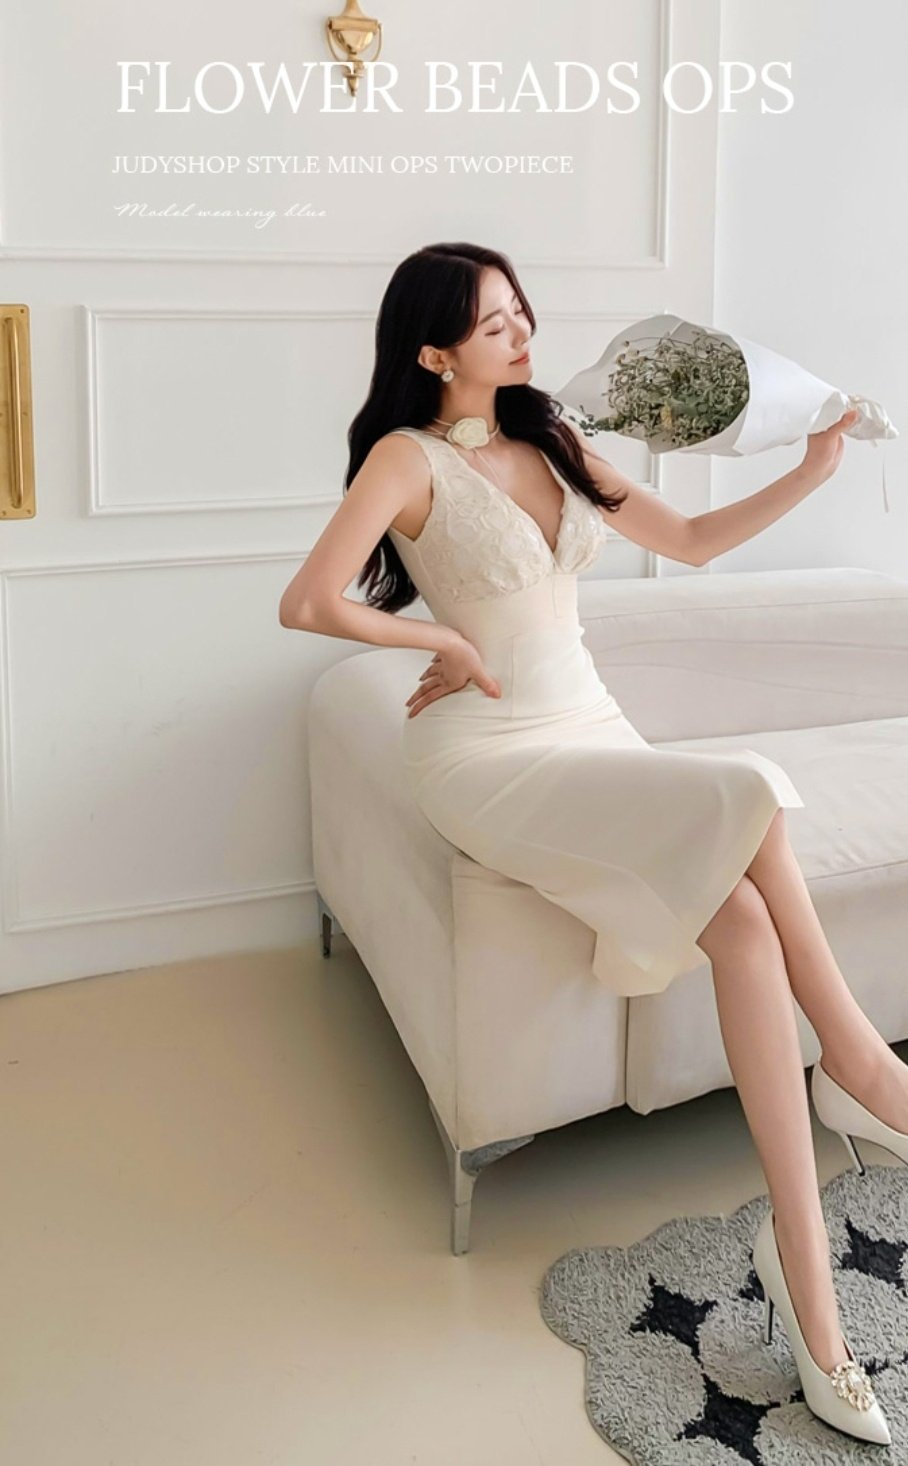
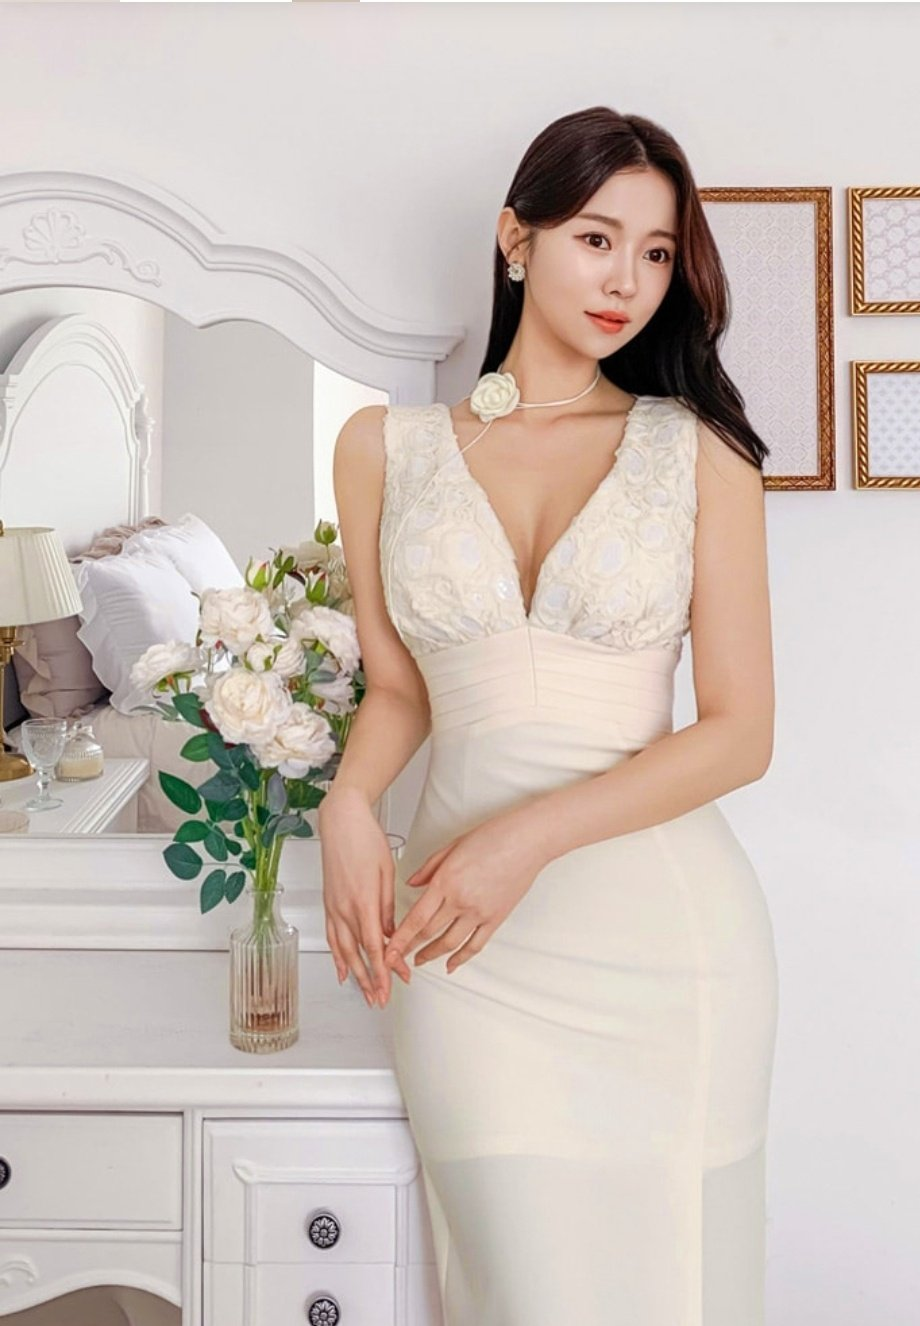
Update N260085 main image

diff --git a/index.html b/index.html
@@ -851,7 +851,7 @@
     const panelBody = qs('#panelBody');
     const closeBtn = qs('#closeBtn');
 
-    const VERSION = 'match32';
+    const VERSION = 'match33';
     let PRODUCTS = [];
     let FILTER = 'ALL';
     let LANG = localStorage.getItem('niceLang') || 'kr';
